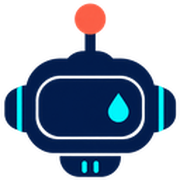
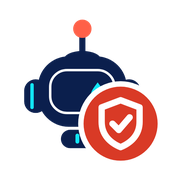
Saját témaikon a böngészőfülön (sadrobot robot + pajzs jelvény; SVG, ICO, 32 px, Apple)

diff --git a/index.html b/index.html
@@ -8,9 +8,10 @@
     <meta name="description" content="Daily cybersecurity briefing: AI security, global incidents, vulnerabilities, EU policy and threat landscape." />
     <meta name="color-scheme" content="light dark" />
     <title>sadrobot Cyber Digest</title>
-    <link rel="icon" href="/favicon.ico?v=2" sizes="any" />
-    <link rel="icon" type="image/png" href="/sadrobot.png?v=2" />
-    <link rel="apple-touch-icon" href="/apple-touch-icon.png" />
+    <link rel="icon" href="/favicon.svg?v=3" type="image/svg+xml" />
+    <link rel="icon" href="/favicon.ico?v=3" sizes="16x16 32x32 48x48" />
+    <link rel="icon" type="image/png" sizes="32x32" href="/favicon-32.png?v=3" />
+    <link rel="apple-touch-icon" href="/apple-touch-icon.png?v=3" />
   </head>
   <body>
     <div id="root"></div>
